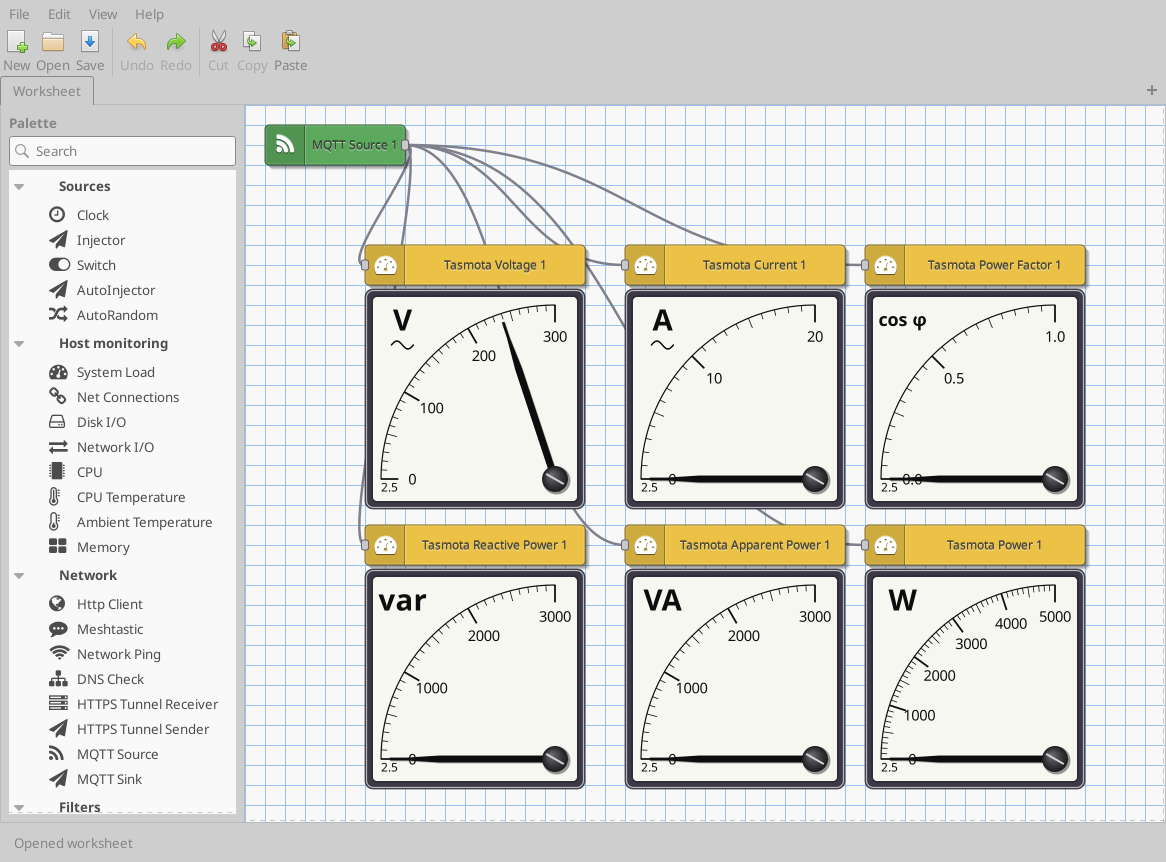
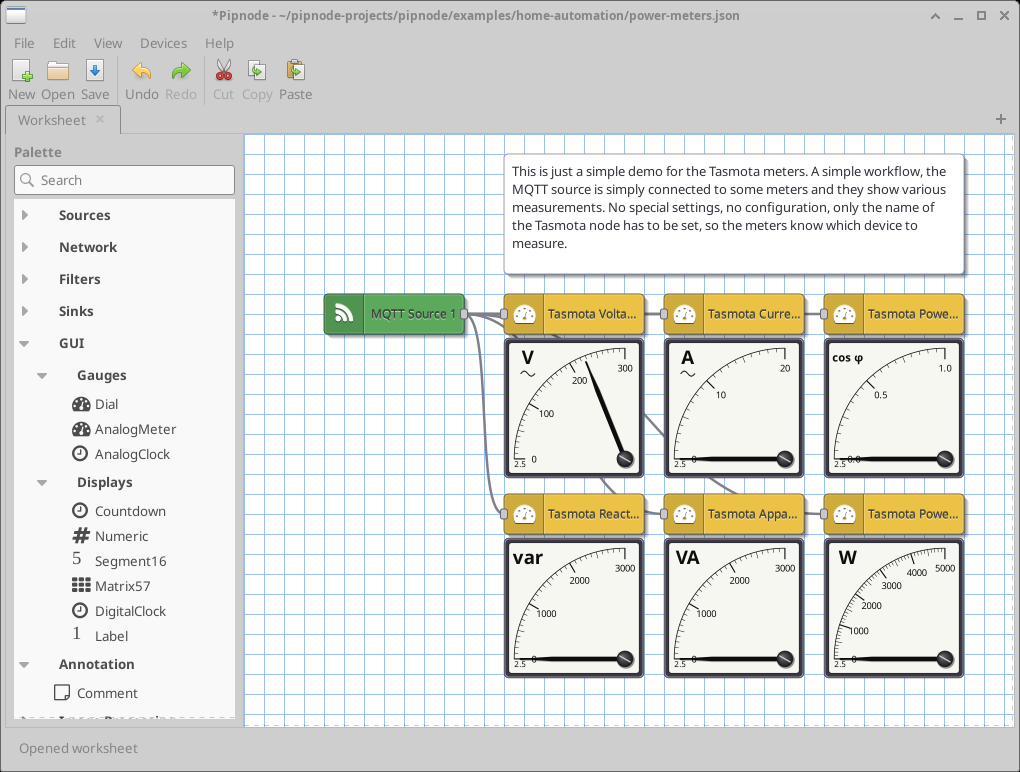
pn-analog-meter: compact 140-px footprint with proportional cosmetics
Shrink the AnalogMeter node from the 220-px square to the canonical
140-px node width every other node uses, with the face scaled by the
same ratio so the client area stays proportional.

Derive a scale factor (face_w / 220) in the painter and thread it
through every fixed-pixel cosmetic — bezel inset, corner radii,
hairline widths, pivot inset, bearing disc, and all label font sizes
(unit, scale digits, accuracy class) and the AC/DC glyph — so they
shrink in step with the smaller face instead of staying oversized.
The frame reads lighter and the lettering is sized for the new
footprint.

Update the meters screenshot to match.

diff --git a/lib/pn-analog-meter-gui.c b/lib/pn-analog-meter-gui.c
@@ -37,6 +37,14 @@
 #include <gtk/gtk.h>
 #include <math.h>
 
+/* Reference face side the cosmetic pixel constants below were tuned
+ * at.  The painter divides the live face side by this to get a scale
+ * factor, so every fixed dimension -- bezel inset, corner radii,
+ * hairline widths, the pivot bearing, badge font sizes and offsets --
+ * shrinks in proportion when the node is rendered at the compact
+ * 140-px footprint instead of the original 220-px one. */
+#define PN_AMG_REF_FACE 220.0
+
 /* ------------------------------------------------------------------ */
 /*  Angle helpers                                                      */
 /*                                                                     */
@@ -110,9 +118,10 @@ rounded_rect_path (cairo_t *cr,
  *  so the bezel still reads as a distinct moulded frame around the
  *  dial face. */
 static void
-paint_case (cairo_t *cr, double w, double h, const PnColor *frame)
+paint_case (cairo_t *cr, double w, double h, const PnColor *frame,
+            double scale)
 {
-    double r = 8.0;
+    double r = 8.0 * scale;
 
     /* Body. */
     cairo_set_source_rgba (cr, frame->red, frame->green, frame->blue,
@@ -128,8 +137,8 @@ paint_case (cairo_t *cr, double w, double h, const PnColor *frame)
      * both of which match the way a moulded plastic case actually
      * catches light from the upper-left of the worksheet. */
     cairo_set_source_rgba (cr, 1.0, 1.0, 1.0, 0.65);
-    cairo_set_line_width (cr, 1.2);
-    rounded_rect_path (cr, w - 3.0, h - 3.0, r - 1.0);
+    cairo_set_line_width (cr, 1.2 * scale);
+    rounded_rect_path (cr, w - 3.0 * scale, h - 3.0 * scale, r - 1.0 * scale);
     cairo_stroke (cr);
 
     /* Outer hairline: a thin dark stroke on the very outside so the
@@ -138,7 +147,7 @@ paint_case (cairo_t *cr, double w, double h, const PnColor *frame)
      * grey, a beige, ...) would otherwise dissolve into the surrounding
      * canvas at typical zoom levels. */
     cairo_set_source_rgba (cr, 0.20, 0.20, 0.22, 0.85);
-    cairo_set_line_width (cr, 0.8);
+    cairo_set_line_width (cr, 0.8 * scale);
     rounded_rect_path (cr, w, h, r);
     cairo_stroke (cr);
 }
@@ -150,18 +159,19 @@ paint_case (cairo_t *cr, double w, double h, const PnColor *frame)
  *  rim is darkened with a thin dark line so the face reads as a
  *  recessed paper card under the bezel. */
 static void
-paint_inner (cairo_t *cr, double w, double h, const PnColor *face)
+paint_inner (cairo_t *cr, double w, double h, const PnColor *face,
+             double scale)
 {
-    double iw = w - 16.0;
-    double ih = h - 16.0;
-    double r  = 4.0;
+    double iw = w - 16.0 * scale;
+    double ih = h - 16.0 * scale;
+    double r  = 4.0 * scale;
 
     /* Soft shadow inset to suggest the face sits below the bezel
      * surface; one translucent dark stroke just outside the inner
      * rect, then the rect itself in @face_color. */
     cairo_set_source_rgba (cr, 0.0, 0.0, 0.0, 0.25);
-    cairo_set_line_width (cr, 1.6);
-    rounded_rect_path (cr, iw + 2.0, ih + 2.0, r + 1.0);
+    cairo_set_line_width (cr, 1.6 * scale);
+    rounded_rect_path (cr, iw + 2.0 * scale, ih + 2.0 * scale, r + 1.0 * scale);
     cairo_stroke (cr);
 
     cairo_set_source_rgba (cr, face->red, face->green, face->blue,
@@ -308,7 +318,8 @@ format_tick_label (gchar *buf, gsize sz, double val, double step)
  *  nice step ({1, 2, 5} × 10^n) derived from the user's `major-ticks`
  *  property, the same way #PnDial picks them.                         */
 static void
-paint_ticks (cairo_t *cr, const PnAnalogMeterPaintState *st, double radius)
+paint_ticks (cairo_t *cr, const PnAnalogMeterPaintState *st, double radius,
+             double scale)
 {
     double                r_outer      = radius * 1.00;  /* outer end of major ticks                       */
     double                r_minor      = radius * 0.965; /* inner end of minor ticks (30% shorter than 5%) */
@@ -350,7 +361,7 @@ paint_ticks (cairo_t *cr, const PnAnalogMeterPaintState *st, double radius)
      * pretends to ride along, which every old analog meter prints to
      * sell the reading as continuous between the labelled major
      * ticks. */
-    cairo_set_line_width (cr, 1.2);
+    cairo_set_line_width (cr, 1.2 * scale);
     cairo_new_sub_path (cr);
     cairo_arc (cr, 0.0, 0.0, r_outer,
                clock_to_cairo (st->start_angle),
@@ -361,7 +372,7 @@ paint_ticks (cairo_t *cr, const PnAnalogMeterPaintState *st, double radius)
      * positions (including the implicit boundary at min_value / first
      * and at last / max_value).  Drawn first so the bolder major
      * ticks overpaint any antialias seam. */
-    cairo_set_line_width (cr, 0.8);
+    cairo_set_line_width (cr, 0.8 * scale);
     cairo_set_line_cap (cr, CAIRO_LINE_CAP_BUTT);
     have_prev = FALSE;
     prev_v    = st->min_value;
@@ -414,7 +425,7 @@ paint_ticks (cairo_t *cr, const PnAnalogMeterPaintState *st, double radius)
      * step stub of unlabelled minors instead of a defined extremum
      * (the "the 5000 isn't drawn" case the user sees on a 0-5000
      * range with the heuristic's 2000 step). */
-    cairo_set_line_width (cr, 1.8);
+    cairo_set_line_width (cr, 1.8 * scale);
     {
         double last_v   = st->min_value;
         gboolean had_min = FALSE;
@@ -452,7 +463,12 @@ paint_ticks (cairo_t *cr, const PnAnalogMeterPaintState *st, double radius)
      * whose max isn't a step multiple ends with a clearly labelled
      * extremum instead of a labelless arc terminus. */
     layout = pango_cairo_create_layout (cr);
-    fd     = pango_font_description_from_string ("Sans 11");
+    {
+        gchar *digit_font = g_strdup_printf ("Sans %d",
+                                             (gint) lround (11.0 * scale));
+        fd = pango_font_description_from_string (digit_font);
+        g_free (digit_font);
+    }
     pango_layout_set_font_description (layout, fd);
     pango_font_description_free (fd);
 
@@ -665,16 +681,17 @@ paint_centered_text (cairo_t       *cr,
 static void
 paint_ac_glyph (cairo_t       *cr,
                 const PnColor *color,
-                double         y_center)
+                double         y_center,
+                double         scale)
 {
-    double w = 22.0;          /* total glyph width */
-    double h = 4.0;           /* peak-to-peak amplitude / 2 */
+    double w = 22.0 * scale;  /* total glyph width */
+    double h = 4.0 * scale;   /* peak-to-peak amplitude / 2 */
     int    samples = 24;
     int    i;
 
     cairo_set_source_rgba (cr, color->red, color->green, color->blue,
                            color->alpha);
-    cairo_set_line_width (cr, 1.5);
+    cairo_set_line_width (cr, 1.5 * scale);
     cairo_set_line_cap (cr, CAIRO_LINE_CAP_ROUND);
 
     cairo_new_sub_path (cr);
@@ -700,14 +717,15 @@ paint_ac_glyph (cairo_t       *cr,
 static void
 paint_dc_glyph (cairo_t       *cr,
                 const PnColor *color,
-                double         y_center)
+                double         y_center,
+                double         scale)
 {
-    double w   = 22.0;
-    double sep = 4.0;            /* vertical gap between the two rows */
+    double w   = 22.0 * scale;
+    double sep = 4.0 * scale;    /* vertical gap between the two rows */
 
     cairo_set_source_rgba (cr, color->red, color->green, color->blue,
                            color->alpha);
-    cairo_set_line_width (cr, 1.5);
+    cairo_set_line_width (cr, 1.5 * scale);
     cairo_set_line_cap (cr, CAIRO_LINE_CAP_ROUND);
 
     /* Solid line on top. */
@@ -744,21 +762,23 @@ paint_dc_glyph (cairo_t       *cr,
  *  so the same routine can serve every choice of pivot position the
  *  user might pick via start-angle / end-angle.                       */
 static void
-paint_pivot_bearing (cairo_t *cr, double cx, double cy)
+paint_pivot_bearing (cairo_t *cr, double cx, double cy, double scale)
 {
-    /* Bearing diameter ≈ 26 px on the canonical 220-px face.  About
-     * 1.6× the size of a typical zero-adjust screw -- chunky enough
-     * to read as the moving-coil's mechanical pivot at the worksheet
-     * zoom levels the editor actually renders at, but small enough
-     * that it does not crowd the lower-right-corner ticks.            */
-    double           r = 13.0;
+    /* Bearing diameter ≈ 26 px on the canonical 220-px face, scaled
+     * down with the face.  About 1.6× the size of a typical zero-
+     * adjust screw -- chunky enough to read as the moving-coil's
+     * mechanical pivot at the worksheet zoom levels the editor
+     * actually renders at, but small enough that it does not crowd
+     * the lower-right-corner ticks.                                   */
+    double           r = 13.0 * scale;
     cairo_pattern_t *grad;
 
     /* Recessed ring around the bearing.  Offset scales with the
      * bearing radius so the shadow gap stays visible at the new
      * doubled diameter. */
     cairo_set_source_rgba (cr, 0.0, 0.0, 0.0, 0.40);
-    cairo_arc (cr, cx + 1.5, cy + 1.5, r + 1.0, 0.0, 2.0 * M_PI);
+    cairo_arc (cr, cx + 1.5 * scale, cy + 1.5 * scale, r + 1.0 * scale,
+               0.0, 2.0 * M_PI);
     cairo_fill (cr);
 
     /* Head body: dark radial gradient. */
@@ -779,7 +799,7 @@ paint_pivot_bearing (cairo_t *cr, double cx, double cy)
     cairo_translate (cr, cx, cy);
     cairo_rotate (cr, M_PI / 6.0);
     cairo_set_source_rgba (cr, 0.85, 0.85, 0.87, 0.95);
-    cairo_set_line_width (cr, 2.0);
+    cairo_set_line_width (cr, 2.0 * scale);
     cairo_set_line_cap (cr, CAIRO_LINE_CAP_BUTT);
     cairo_move_to (cr, -r * 0.78, 0.0);
     cairo_line_to (cr, +r * 0.78, 0.0);
@@ -795,17 +815,21 @@ static void
 paint_accuracy_class (cairo_t       *cr,
                       const gchar   *text,
                       const PnColor *color,
-                      double         face_h)
+                      double         face_h,
+                      double         scale)
 {
     PangoLayout          *layout;
     PangoFontDescription *fd;
+    gchar                *font;
     int                   pw, ph;
 
     if (text == NULL || *text == '\0')
         return;
 
     layout = pango_cairo_create_layout (cr);
-    fd     = pango_font_description_from_string ("Sans 9");
+    font   = g_strdup_printf ("Sans %d", (gint) lround (9.0 * scale));
+    fd     = pango_font_description_from_string (font);
+    g_free (font);
     pango_layout_set_font_description (layout, fd);
     pango_font_description_free (fd);
     pango_layout_set_text (layout, text, -1);
@@ -813,7 +837,7 @@ paint_accuracy_class (cairo_t       *cr,
 
     cairo_set_source_rgba (cr, color->red, color->green, color->blue,
                            color->alpha);
-    cairo_move_to (cr, 16.0, face_h - 22.0 - ph * 0.5);
+    cairo_move_to (cr, 16.0 * scale, face_h - 22.0 * scale - ph * 0.5);
     pango_cairo_show_layout (cr, layout);
 
     g_object_unref (layout);
@@ -832,6 +856,12 @@ pn_analog_meter_paint_plot (
     PnAnalogMeterPaintState  st;
     double                   face_w  = w;
     double                   face_h  = h;
+    /* Cosmetic-detail scale: 1.0 at the original 220-px face, ~0.64
+     * at the compact 140-px footprint.  Every fixed pixel dimension
+     * below (and inside the paint_* helpers) is multiplied by this so
+     * the bezel, bearing, hairlines and label fonts shrink in step
+     * with the face instead of staying large on the smaller node. */
+    double                   scale   = face_w / PN_AMG_REF_FACE;
     /* Pivot at the lower-right corner of the face.  The default scale
      * runs lower-left (start-angle = -90, the needle pointing
      * horizontally left) up through the top to upper-right (end-angle
@@ -843,8 +873,8 @@ pn_analog_meter_paint_plot (
      * there is no separate centre-of-face dome on top of the needle
      * the way #PnDial has, because the bearing already sits where the
      * needle's stub would otherwise be.                                */
-    double         pivot_x = face_w - 30.0;
-    double         pivot_y = face_h - 30.0;
+    double         pivot_x = face_w - 30.0 * scale;
+    double         pivot_y = face_h - 30.0 * scale;
 
     pn_analog_meter_get_paint_state (self, &st);
 
@@ -880,14 +910,14 @@ pn_analog_meter_paint_plot (
             if (c < min_cos) min_cos = c;
         }
     }
-    double         margin = 16.0;
-    double         top_pad = 14.0;
+    double         margin = 16.0 * scale;
+    double         top_pad = 14.0 * scale;
     double         radius  = 1e9;
     if (max_sin >  0.01) radius = fmin (radius, (face_w - margin - pivot_x) / max_sin);
     if (min_sin < -0.01) radius = fmin (radius, (pivot_x - margin) / (-min_sin));
     if (max_cos >  0.01) radius = fmin (radius, (pivot_y - top_pad) / max_cos);
     if (min_cos < -0.01) radius = fmin (radius, (face_h - margin - pivot_y) / (-min_cos));
-    if (radius < 40.0)  radius = 40.0;
+    if (radius < 40.0 * scale)  radius = 40.0 * scale;
 
     cairo_save (cr);
     cairo_translate (cr, x, y);
@@ -895,8 +925,8 @@ pn_analog_meter_paint_plot (
     /* Plastic case + inset face. */
     cairo_save (cr);
     cairo_translate (cr, face_w * 0.5, face_h * 0.5);
-    paint_case  (cr, face_w, face_h, &st.frame_color);
-    paint_inner (cr, face_w, face_h, &st.face_color);
+    paint_case  (cr, face_w, face_h, &st.frame_color, scale);
+    paint_inner (cr, face_w, face_h, &st.face_color, scale);
     cairo_restore (cr);
 
     /* Unit + AC/DC glyph stacked in the UPPER-LEFT corner of the
@@ -922,18 +952,21 @@ pn_analog_meter_paint_plot (
          * "mbar") trip paint_centered_text's shrink-to-fit fallback,
          * which scales the font down until the run lands inside the
          * badge area. */
+        gchar *unit_font = g_strdup_printf ("Sans Bold %d",
+                                            (gint) lround (22.0 * scale));
         paint_centered_text (cr,
-                             st.unit, "Sans Bold 22",
+                             st.unit, unit_font,
                              &st.label_color,
-                             30.0,
+                             30.0 * scale,
                              face_w * 0.22);
+        g_free (unit_font);
         switch (st.mode)
         {
         case PN_ANALOG_METER_MODE_AC:
-            paint_ac_glyph (cr, &st.label_color, 56.0);
+            paint_ac_glyph (cr, &st.label_color, 56.0 * scale, scale);
             break;
         case PN_ANALOG_METER_MODE_DC:
-            paint_dc_glyph (cr, &st.label_color, 56.0);
+            paint_dc_glyph (cr, &st.label_color, 56.0 * scale, scale);
             break;
         case PN_ANALOG_METER_MODE_NONE:
         default:
@@ -945,7 +978,7 @@ pn_analog_meter_paint_plot (
         cairo_restore (cr);
     }
     paint_accuracy_class (cr, st.accuracy_class,
-                          &st.label_color, face_h);
+                          &st.label_color, face_h, scale);
 
     /* Scale + needle, in pivot-local coords.  The pivot bearing disc
      * is painted AFTER the needle (in face-local coords) so it sits
@@ -953,11 +986,11 @@ pn_analog_meter_paint_plot (
      * mechanical pivot the needle swings out from.                    */
     cairo_save (cr);
     cairo_translate (cr, pivot_x, pivot_y);
-    paint_ticks  (cr, &st, radius);
+    paint_ticks  (cr, &st, radius, scale);
     paint_needle (cr, &st, radius);
     cairo_restore (cr);
 
-    paint_pivot_bearing (cr, pivot_x, pivot_y);
+    paint_pivot_bearing (cr, pivot_x, pivot_y, scale);
 
     cairo_restore (cr);
 }

diff --git a/lib/pn-analog-meter.c b/lib/pn-analog-meter.c
@@ -42,16 +42,19 @@
 /* ------------------------------------------------------------------ */
 /*  Geometry                                                           */
 /*                                                                     */
-/*  Square footprint matching #PnDial: 220-px-wide header + 220-px     */
-/*  square face below.  The face hosts a flat panel-meter look -- a    */
-/*  rounded-corner plastic case, a bright inset face, and a needle    */
-/*  pivoted at the bottom centre that sweeps the upper arc.            */
+/*  Compact footprint: a standard 140-px-wide node header (matching    */
+/*  the canonical Node-RED rectangle every other node uses) with a     */
+/*  140-px square face below.  The face hosts a flat panel-meter look  */
+/*  -- a rounded-corner plastic case, a bright inset face, and a       */
+/*  needle pivoted at the bottom centre that sweeps the upper arc.     */
+/*  The face side scales with the width so the client area stays       */
+/*  proportional to the slimmer header.                                */
 /* ------------------------------------------------------------------ */
 
-#define PN_AM_WIDTH         220.0
+#define PN_AM_WIDTH         140.0
 #define PN_AM_HEADER_HEIGHT  40.0
 #define PN_AM_GAP             4.0
-#define PN_AM_FACE_SIZE     220.0
+#define PN_AM_FACE_SIZE     140.0
 #define PN_AM_TOTAL_HEIGHT  (PN_AM_HEADER_HEIGHT + PN_AM_GAP + PN_AM_FACE_SIZE)
 
 /* Repaint throttle: cap incoming-message-driven repaints at 30 Hz so
